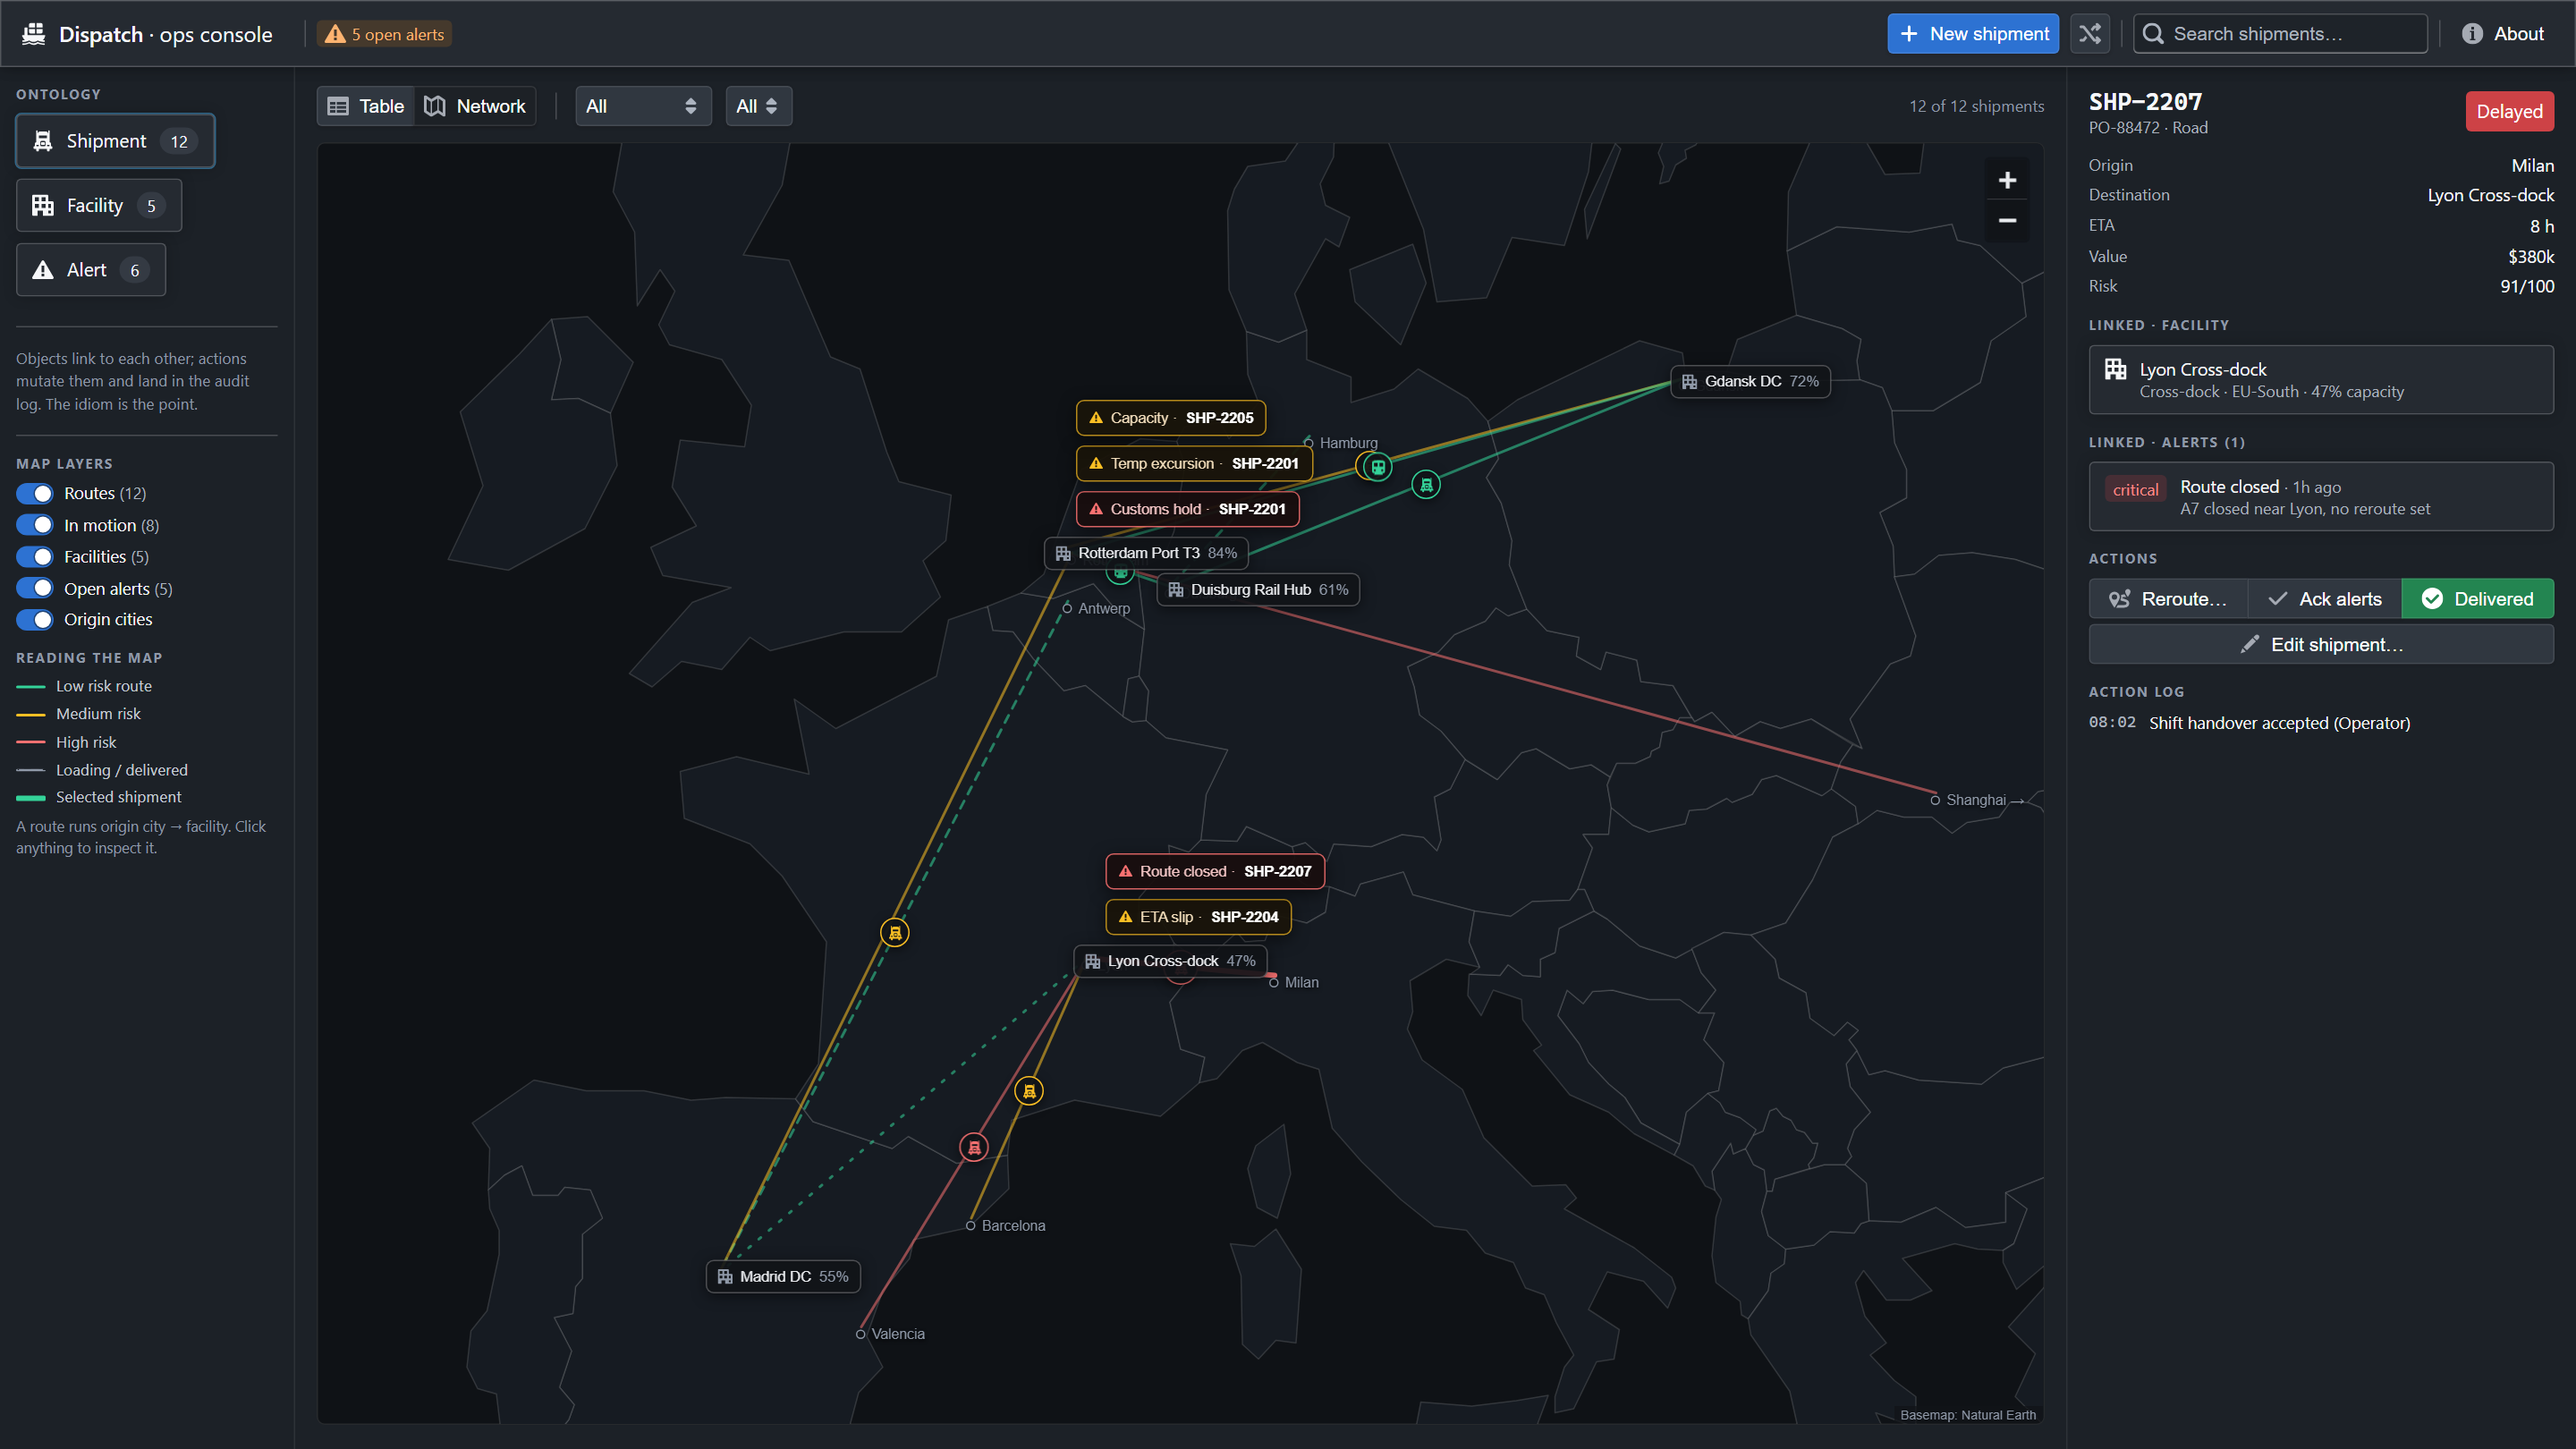
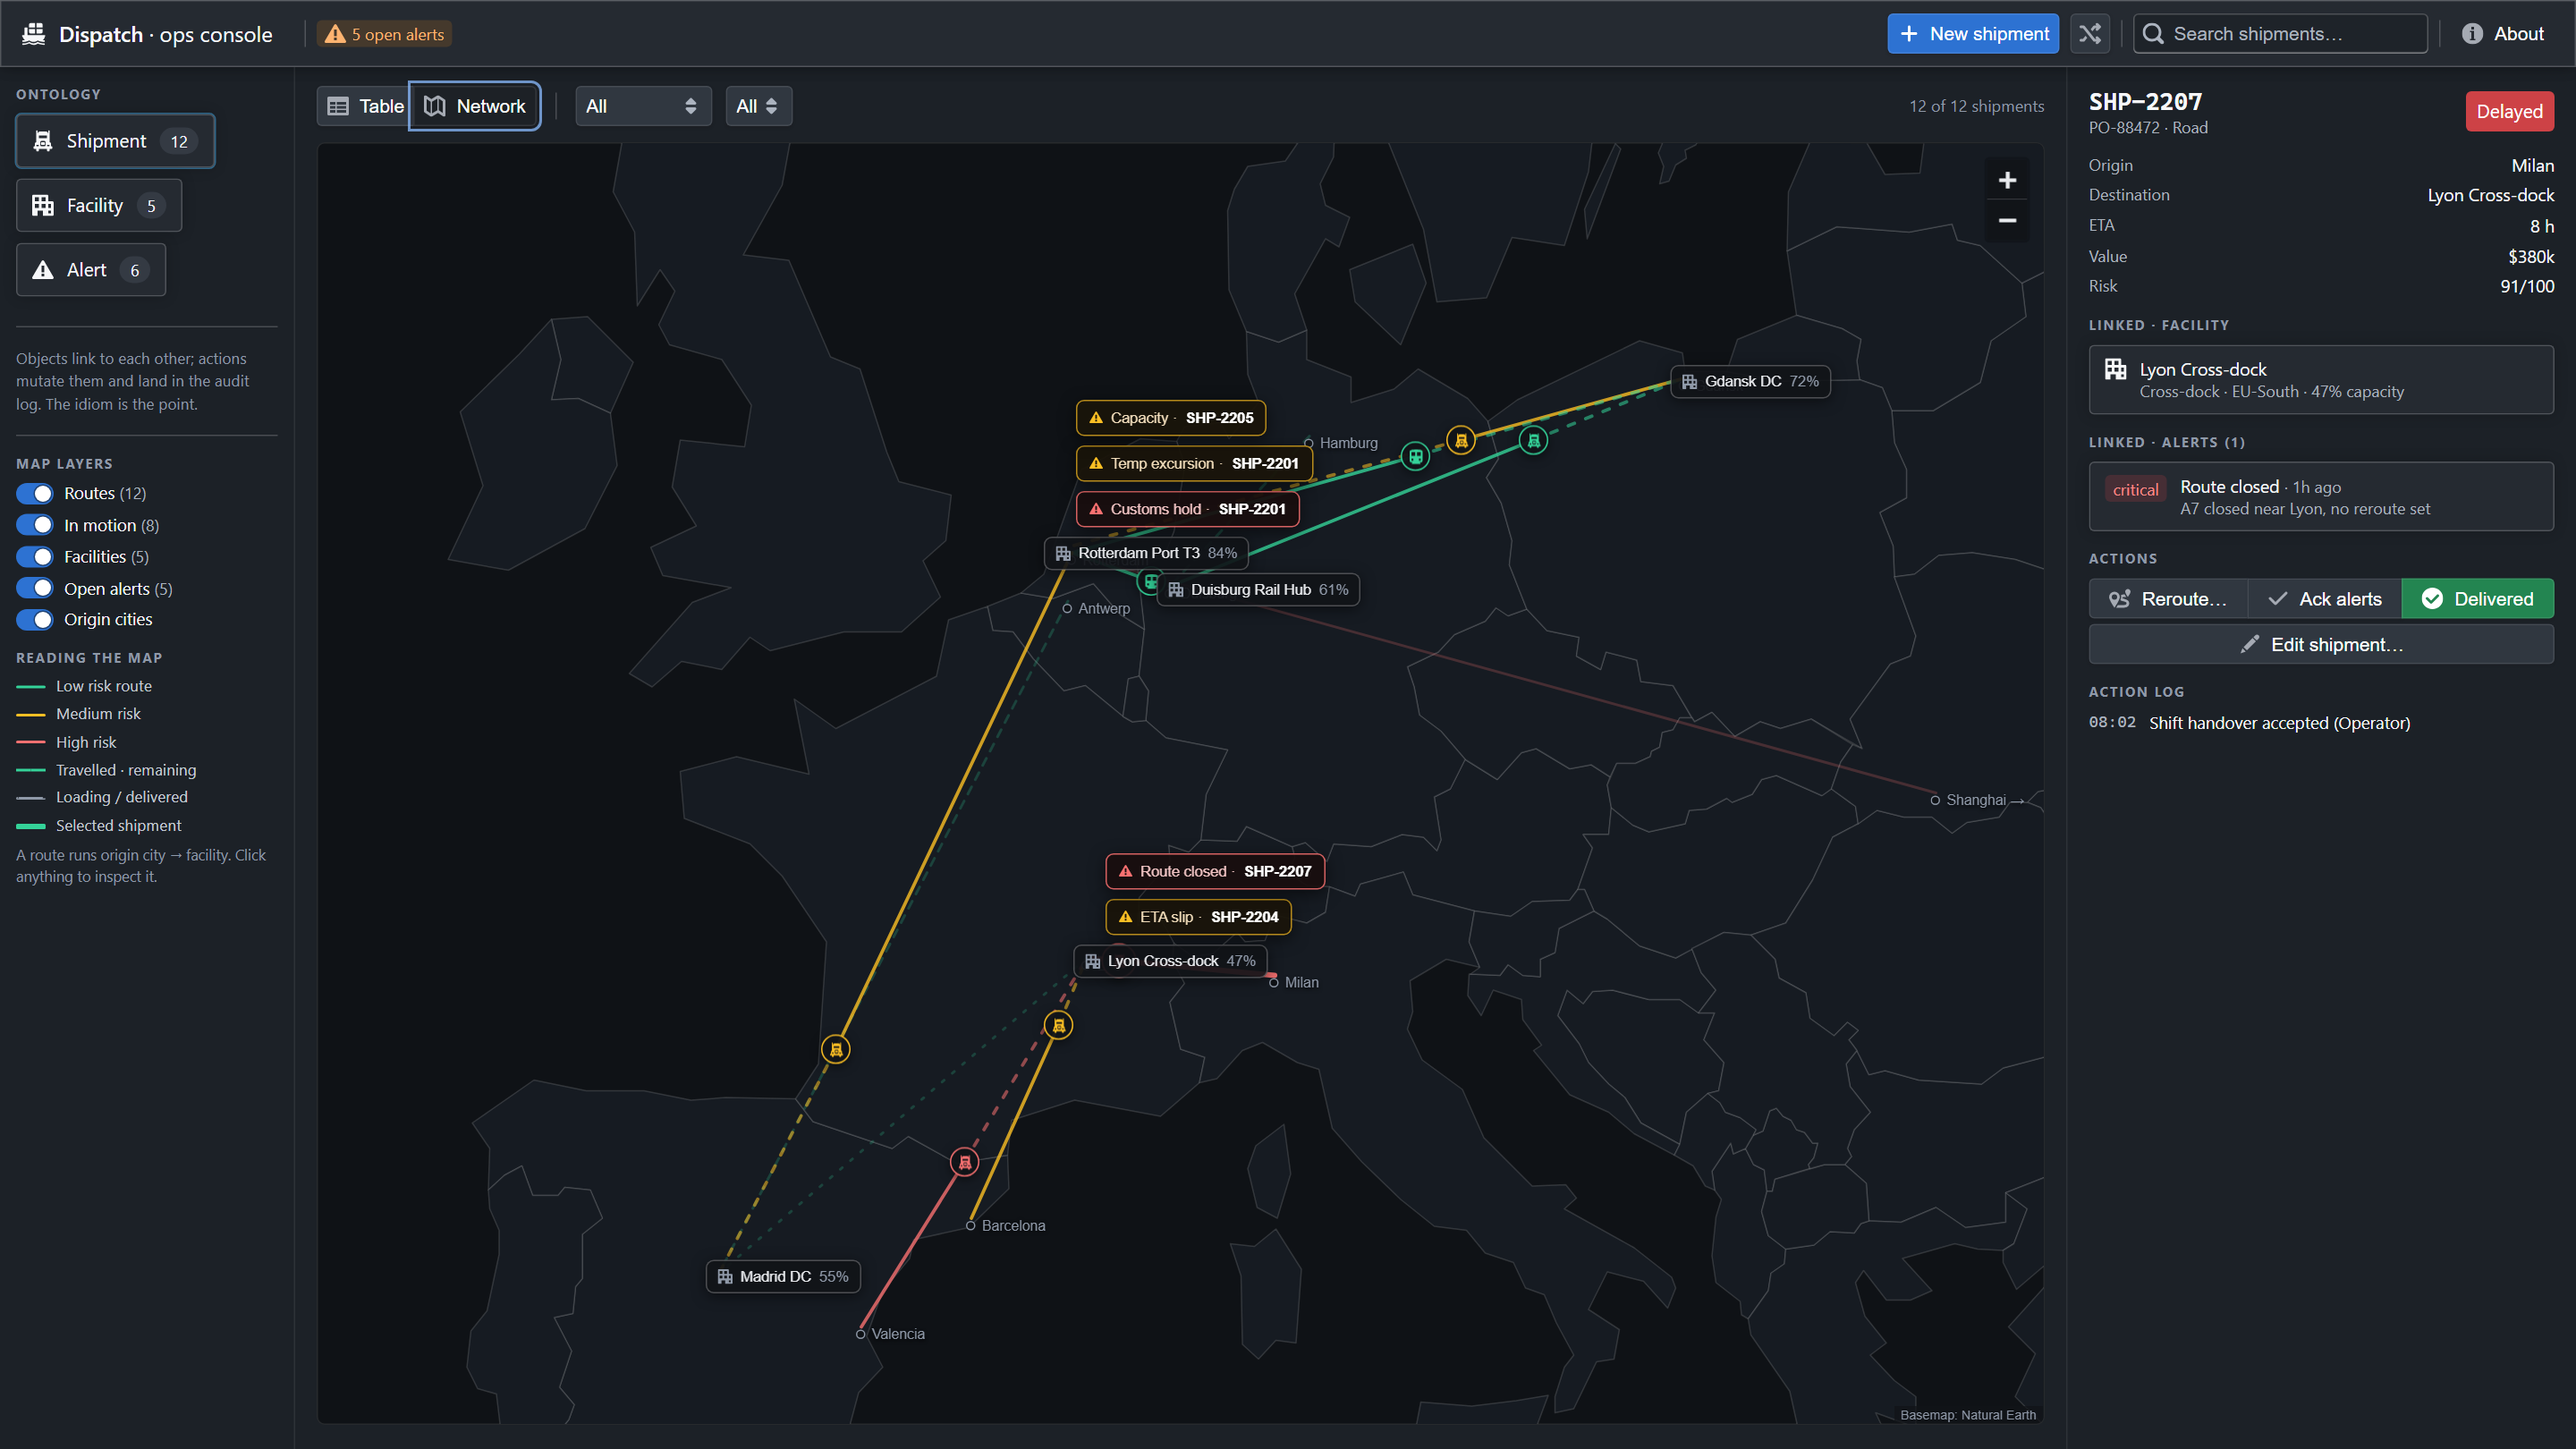
In-motion progress paths: travelled solid, remaining dashed
The in-motion layer now draws each moving shipment's own path —
solid up to the estimated position (derived from remaining ETA),
dashed for the leg ahead, mode chip at the position — instead of a
lone chip in space. Base routes fade to a background net and skip
shipments already drawn as progress, so the two layers compose
instead of stacking. Legend explains the encoding.

diff --git a/src/MapView.jsx b/src/MapView.jsx
@@ -71,6 +71,7 @@ export function MapLayersPanel({ show, onToggle, shipments, alerts }) {
             <div className="legend-row"><span className="legend-line" style={{ background: '#34d399' }} /> Low risk route</div>
             <div className="legend-row"><span className="legend-line" style={{ background: '#fbbf24' }} /> Medium risk</div>
             <div className="legend-row"><span className="legend-line" style={{ background: '#f87171' }} /> High risk</div>
+            <div className="legend-row"><span className="legend-duo"><span className="legend-duo__solid" /><span className="legend-duo__dash" /></span> Travelled · remaining</div>
             <div className="legend-row"><span className="legend-line legend-line--dash" /> Loading / delivered</div>
             <div className="legend-row"><span className="legend-line legend-line--thick" style={{ background: '#34d399' }} /> Selected shipment</div>
             <div className="legend-row legend-row--hint">A route runs origin city → facility. Click anything to inspect it.</div>
@@ -130,27 +131,40 @@ export default function MapView({ shipments, alerts, selectedId, onSelect, show 
             const { point: from, clipped } = clampOrigin(rawFrom, [dest.lat, dest.lng]);
             originStops[s.origin] = { point: from, clipped };
             const isSel = s.id === selectedId;
-            if (show.routes) {
-                const line = L.polyline([from, [dest.lat, dest.lng]], {
-                    color: riskColor(s.riskScore),
-                    weight: isSel ? 4 : 2,
-                    opacity: isSel ? 0.95 : 0.55,
-                    dashArray: s.status === 'Delivered' ? '2 8' : s.status === 'Loading' ? '6 6' : null,
-                });
-                line.bindTooltip(`${s.id} · ${s.origin} → ${dest.name} · ${s.status}`, { sticky: true, direction: 'top' });
+            const c = riskColor(s.riskScore);
+            const inMotion = s.status === 'In transit' || s.status === 'Delayed';
+            const tip = `${s.id} · ${s.origin} → ${dest.name} · ${s.status}`;
+            const wire = (line) => {
+                line.bindTooltip(tip, { sticky: true, direction: 'top' });
                 line.on('click', () => onSelect(s.id));
                 layers.addLayer(line);
+            };
+            const drawnAsProgress = show.transit && inMotion;
+            // Base routes are a faint background net; when the in-motion layer
+            // already draws a shipment's progress path, skip its base route so
+            // the two layers compose instead of stacking.
+            if (show.routes && !drawnAsProgress) {
+                wire(L.polyline([from, [dest.lat, dest.lng]], {
+                    color: c,
+                    weight: isSel ? 3.5 : 2,
+                    opacity: isSel ? 0.9 : 0.22,
+                    dashArray: s.status === 'Delivered' ? '2 8' : s.status === 'Loading' ? '6 6' : null,
+                }));
             }
-            // mode chip at the route midpoint for in-motion shipments
-            if (show.transit && (s.status === 'In transit' || s.status === 'Delayed')) {
-                const mid = [(from[0] + dest.lat) / 2, (from[1] + dest.lng) / 2];
-                const c = riskColor(s.riskScore);
+            // In-motion: travelled part solid, remaining part dashed, chip at
+            // the estimated position (derived from remaining ETA, ~48h trips).
+            if (drawnAsProgress) {
+                const t = Math.min(0.9, Math.max(0.1, 1 - s.etaH / 48));
+                const pos = [from[0] + (dest.lat - from[0]) * t, from[1] + (dest.lng - from[1]) * t];
+                const w = isSel ? 4 : 2.5;
+                wire(L.polyline([from, pos], { color: c, weight: w, opacity: isSel ? 0.95 : 0.8 }));
+                wire(L.polyline([pos, [dest.lat, dest.lng]], { color: c, weight: w, opacity: isSel ? 0.8 : 0.55, dashArray: '5 9' }));
                 const chip = L.divIcon({
                     className: '',
                     html: `<div class="map-chip${isSel ? ' map-chip--sel' : ''}" style="border-color:${c};color:${c}">${bpSvg(MODE_ICON[s.mode] || 'Truck', 11)}</div>`,
                     iconSize: [22, 22], iconAnchor: [11, 11],
                 });
-                const dot = L.marker(mid, { icon: chip, zIndexOffset: isSel ? 400 : 300 });
+                const dot = L.marker(pos, { icon: chip, zIndexOffset: isSel ? 400 : 300 });
                 dot.bindTooltip(`${s.id} · ${s.mode} · ETA ${s.etaH}h`, { direction: 'top' });
                 dot.on('click', () => onSelect(s.id));
                 layers.addLayer(dot);

diff --git a/src/index.css b/src/index.css
@@ -63,6 +63,9 @@ body { font-family: -apple-system, BlinkMacSystemFont, 'Segoe UI', sans-serif; }
 .legend-line { width: 22px; height: 2px; border-radius: 1px; flex: none; }
 .legend-line--thick { height: 4px; }
 .legend-line--dash { height: 0; border-top: 2px dashed #8f99a8; background: none !important; }
+.legend-duo { display: inline-flex; width: 22px; flex: none; align-items: center; }
+.legend-duo__solid { width: 11px; height: 2px; background: #34d399; }
+.legend-duo__dash { width: 11px; height: 0; border-top: 2px dashed #34d399; }
 .legend-row--hint { color: #8f99a8; font-size: 11px; line-height: 1.45; margin-top: 4px; }
 .table-pane { display: flex; flex-direction: column; }
 .map-fac { display: inline-flex; align-items: center; gap: 6px; white-space: nowrap;
